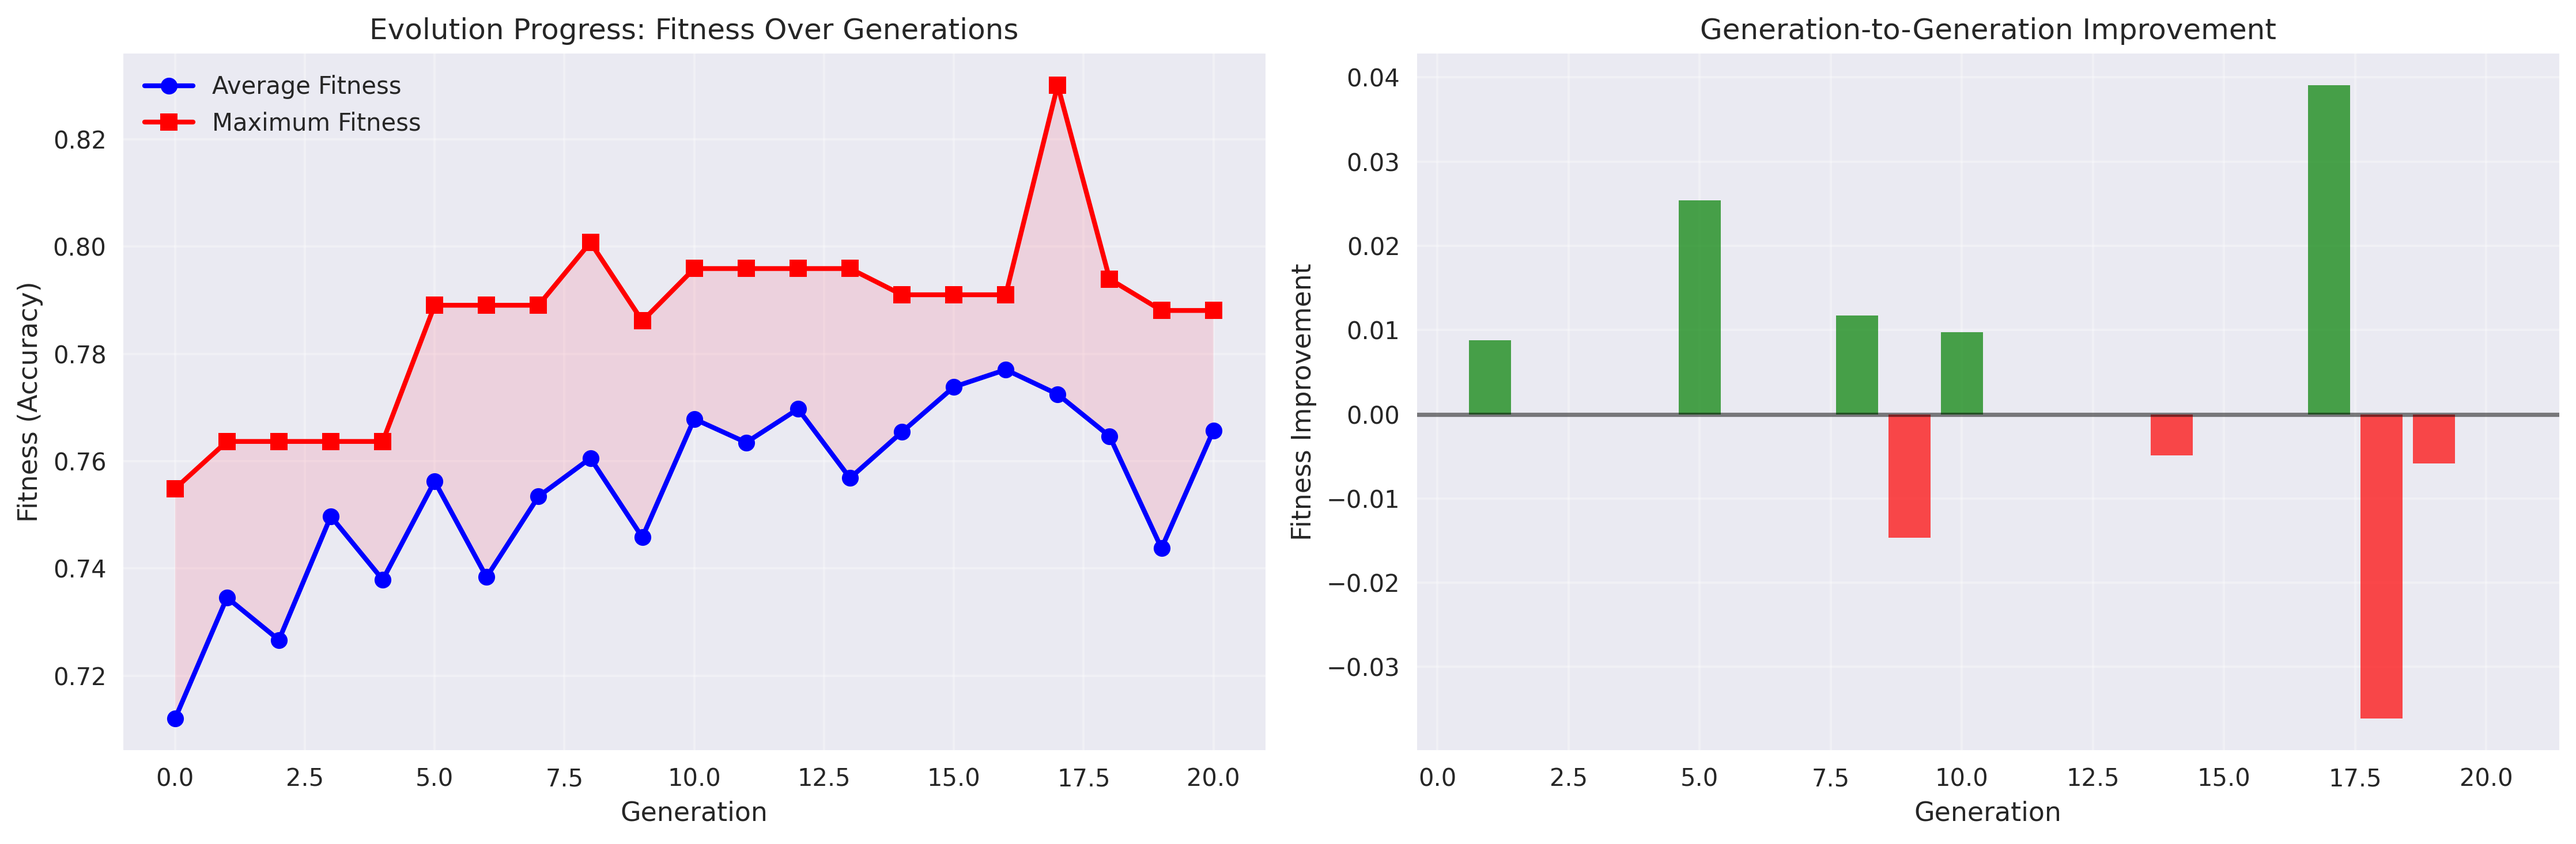
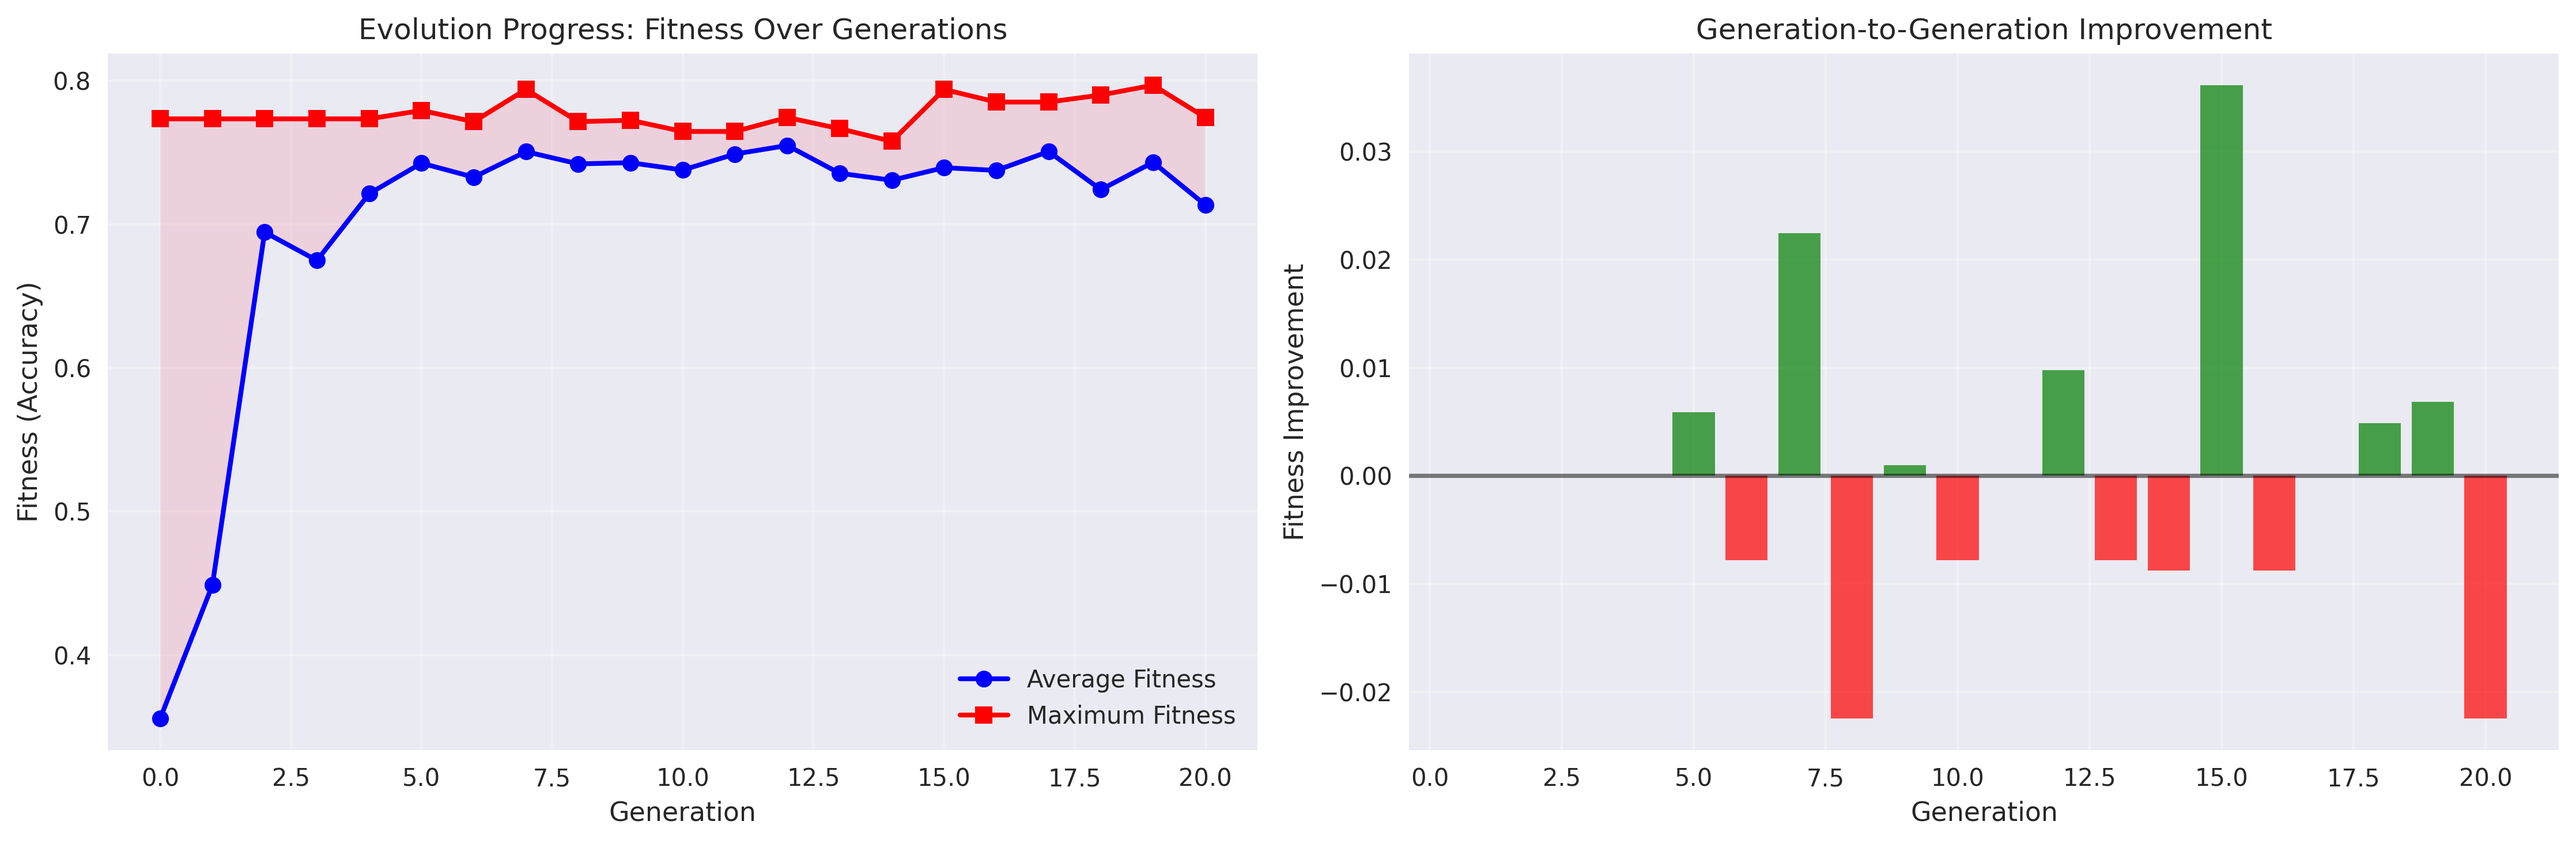
update-friday

diff --git a/testing.py b/testing.py
@@ -1,0 +1,368 @@
+import torch
+import torch.nn as nn
+import snntorch as snn
+import torchvision
+import torchvision.transforms as transforms
+from torch.utils.data import DataLoader
+import numpy as np
+import random
+from deap import base, creator, tools, algorithms
+import matplotlib.pyplot as plt
+import seaborn as sns
+from matplotlib.patches import Rectangle
+import math
+
+plt.style.use('seaborn-v0_8')
+sns.set_palette("husl")
+
+transform = transforms.Compose([transforms.ToTensor()])
+train_data = torchvision.datasets.MNIST(root="./data", train=True, download=True, transform=transform)
+test_data = torchvision.datasets.MNIST(root="./data", train=False, download=True, transform=transform)
+train_loader = DataLoader(train_data, batch_size=64, shuffle=True)
+test_loader = DataLoader(test_data, batch_size=64, shuffle=False)
+
+def create_snn(layer_sizes, beta, dropout_rate=0.1):
+    """
+    Create SNN with variable number of layers and improved architecture
+    """
+    class SNNModel(nn.Module):
+        def __init__(self):
+            super().__init__()
+            
+            self.layers = nn.ModuleList()
+            self.lif_layers = nn.ModuleList()
+            self.dropout_layers = nn.ModuleList()
+            
+            # Input layer
+            input_size = 28 * 28
+            for i, hidden_size in enumerate(layer_sizes):
+                self.layers.append(nn.Linear(input_size, hidden_size))
+                self.lif_layers.append(snn.Leaky(beta=beta))
+                # Add dropout for regularization (except last layer)
+                if i < len(layer_sizes) - 1:
+                    self.dropout_layers.append(nn.Dropout(dropout_rate))
+                else:
+                    self.dropout_layers.append(nn.Identity())
+                input_size = hidden_size
+            
+            # Output layer
+            self.layers.append(nn.Linear(input_size, 10))
+            self.lif_layers.append(snn.Leaky(beta=beta))
+
+        def forward(self, x, num_steps=15):  # Increased time steps
+            # Initialize membrane potentials for all layers
+            mem_states = [lif.init_leaky() for lif in self.lif_layers]
+            spk_out = 0
+            
+            for step in range(num_steps):
+                current_input = x.view(x.size(0), -1)
+                
+                # Forward through all layers
+                for i, (layer, lif, dropout) in enumerate(zip(self.layers, self.lif_layers, self.dropout_layers + [nn.Identity()])):
+                    current = layer(current_input)
+                    spike, mem_states[i] = lif(current, mem_states[i])
+                    if i < len(self.layers) - 1:  # Apply dropout except on output
+                        spike = dropout(spike)
+                    current_input = spike
+                
+                spk_out += current_input
+            
+            return spk_out / num_steps
+    
+    return SNNModel()
+
+def create_individual_with_depth():
+    """Create individual with improved parameter ranges"""
+    num_hidden_layers = random.randint(2, 4)  # Reduced max depth for stability
+    
+    # Create layer sizes with tapering (wider to narrower)
+    layer_sizes = []
+    base_size = random.uniform(128, 256)  # Start with wider layers
+    
+    for i in range(num_hidden_layers):
+        # Gradually reduce size for deeper layers
+        reduction_factor = 0.7 ** i
+        size = max(32, base_size * reduction_factor + random.uniform(-20, 20))
+        layer_sizes.append(size)
+    
+    beta = random.uniform(0.7, 0.95)  # Narrower beta range
+    lr = random.uniform(0.001, 0.005)  # Narrower LR range
+    dropout = random.uniform(0.0, 0.2)  # Add dropout parameter
+    
+    individual = [num_hidden_layers] + layer_sizes + [beta, lr, dropout]
+    return individual
+
+def bounded_mutation_with_depth(individual, mu=0, sigma=0.15, indpb=0.15):
+    """Improved mutation with smaller perturbations"""
+    num_layers = int(individual[0])
+    
+    # Mutate number of layers (lower probability)
+    if random.random() < 0.03:  # Reduced probability
+        new_num_layers = max(2, min(4, num_layers + random.choice([-1, 1])))
+        
+        if new_num_layers > num_layers:
+            # Add a new layer (smaller than previous)
+            prev_size = individual[num_layers] if num_layers > 0 else 128
+            new_layer_size = max(32, prev_size * 0.7 + random.uniform(-10, 10))
+            individual.insert(num_layers + 1, new_layer_size)
+        elif new_num_layers < num_layers:
+            individual.pop(num_layers)
+        
+        individual[0] = new_num_layers
+        num_layers = new_num_layers
+    
+    # Mutate layer sizes with smaller perturbations
+    for i in range(1, num_layers + 1):
+        if random.random() < indpb:
+            individual[i] += random.gauss(mu, sigma * 30)  # Smaller mutations
+            individual[i] = max(32, min(256, individual[i]))
+    
+    # Mutate beta
+    if random.random() < indpb:
+        individual[num_layers + 1] += random.gauss(mu, sigma * 0.05)
+        individual[num_layers + 1] = max(0.7, min(0.95, individual[num_layers + 1]))
+    
+    # Mutate learning rate
+    if random.random() < indpb:
+        individual[num_layers + 2] += random.gauss(mu, sigma * 0.001)
+        individual[num_layers + 2] = max(0.001, min(0.005, individual[num_layers + 2]))
+    
+    # Mutate dropout
+    if random.random() < indpb:
+        individual[num_layers + 3] += random.gauss(mu, sigma * 0.05)
+        individual[num_layers + 3] = max(0.0, min(0.2, individual[num_layers + 3]))
+    
+    return individual,
+
+def crossover_with_depth(ind1, ind2):
+    """Improved crossover for variable-length individuals"""
+    num_layers1 = int(ind1[0])
+    num_layers2 = int(ind2[0])
+    
+    # Choose depth more intelligently (favor successful depths)
+    if hasattr(ind1, 'fitness') and hasattr(ind2, 'fitness'):
+        if ind1.fitness.valid and ind2.fitness.valid:
+            if ind1.fitness.values[0] > ind2.fitness.values[0]:
+                chosen_depth = num_layers1
+            else:
+                chosen_depth = num_layers2
+        else:
+            chosen_depth = random.choice([num_layers1, num_layers2])
+    else:
+        chosen_depth = random.choice([num_layers1, num_layers2])
+    
+    # Create new individuals
+    new_ind1 = [chosen_depth]
+    new_ind2 = [chosen_depth]
+    
+    # Blend layer sizes
+    for i in range(chosen_depth):
+        if i < num_layers1 and i < num_layers2:
+            # Blend existing layers
+            alpha = random.uniform(0.3, 0.7)  # Less extreme blending
+            size1 = alpha * ind1[1 + i] + (1 - alpha) * ind2[1 + i]
+            size2 = (1 - alpha) * ind1[1 + i] + alpha * ind2[1 + i]
+        elif i < num_layers1:
+            size1 = ind1[1 + i] + random.uniform(-10, 10)
+            size2 = random.uniform(32, 128)
+        elif i < num_layers2:
+            size1 = random.uniform(32, 128)
+            size2 = ind2[1 + i] + random.uniform(-10, 10)
+        else:
+            size1 = random.uniform(64, 128)
+            size2 = random.uniform(64, 128)
+        
+        new_ind1.append(max(32, min(256, size1)))
+        new_ind2.append(max(32, min(256, size2)))
+    
+    # Blend other parameters
+    alpha = random.uniform(0.3, 0.7)
+    beta1 = alpha * ind1[num_layers1 + 1] + (1 - alpha) * ind2[num_layers2 + 1]
+    beta2 = (1 - alpha) * ind1[num_layers1 + 1] + alpha * ind2[num_layers2 + 1]
+    lr1 = alpha * ind1[num_layers1 + 2] + (1 - alpha) * ind2[num_layers2 + 2]
+    lr2 = (1 - alpha) * ind1[num_layers1 + 2] + alpha * ind2[num_layers2 + 2]
+    dropout1 = alpha * ind1[num_layers1 + 3] + (1 - alpha) * ind2[num_layers2 + 3]
+    dropout2 = (1 - alpha) * ind1[num_layers1 + 3] + alpha * ind2[num_layers2 + 3]
+    
+    new_ind1.extend([beta1, lr1, dropout1])
+    new_ind2.extend([beta2, lr2, dropout2])
+    
+    ind1[:] = new_ind1
+    ind2[:] = new_ind2
+    
+    return ind1, ind2
+
+def evaluate_model_with_depth(individual):
+    """Improved evaluation with more training and better metrics"""
+    try:
+        # Parse individual
+        num_layers = int(individual[0])
+        layer_sizes = [max(32, min(256, int(round(individual[i])))) 
+                       for i in range(1, num_layers + 1)]
+        beta = max(0.7, min(0.95, float(individual[num_layers + 1])))
+        lr = max(0.001, min(0.005, float(individual[num_layers + 2])))
+        dropout = max(0.0, min(0.2, float(individual[num_layers + 3])))
+        
+        model = create_snn(layer_sizes, beta, dropout)
+        device = torch.device("cuda" if torch.cuda.is_available() else "cpu")
+        model.to(device)
+        optimizer = torch.optim.Adam(model.parameters(), lr=lr, weight_decay=1e-4)
+        loss_fn = nn.CrossEntropyLoss()
+
+        # Extended training loop
+        model.train()
+        total_loss = 0
+        num_batches = 0
+        
+        for batch_idx, (data, targets) in enumerate(train_loader):
+            data, targets = data.to(device), targets.to(device)
+            optimizer.zero_grad()
+            output = model(data)
+            loss = loss_fn(output, targets)
+            loss.backward()
+            
+            # Gradient clipping to prevent exploding gradients
+            torch.nn.utils.clip_grad_norm_(model.parameters(), max_norm=1.0)
+            
+            optimizer.step()
+            total_loss += loss.item()
+            num_batches += 1
+            
+            # Train on more batches based on network depth
+            max_batches = min(50, 30 + num_layers * 5)
+            if batch_idx >= max_batches:
+                break
+
+        # More comprehensive evaluation
+        model.eval()
+        correct, total = 0, 0
+        eval_loss = 0
+        
+        with torch.no_grad():
+            for batch_idx, (data, targets) in enumerate(test_loader):
+                data, targets = data.to(device), targets.to(device)
+                outputs = model(data)
+                loss = loss_fn(outputs, targets)
+                eval_loss += loss.item()
+                
+                _, pred = outputs.max(1)
+                total += targets.size(0)
+                correct += (pred == targets).sum().item()
+                
+                # Evaluate on more samples for better accuracy
+                if total >= 2000:  # Increased from 1000
+                    break
+        
+        accuracy = correct / total
+        avg_train_loss = total_loss / num_batches
+        avg_eval_loss = eval_loss / min(batch_idx + 1, len(test_loader))
+        
+        # Penalize overfitting and complexity
+        complexity_penalty = num_layers * 0.001 + sum(layer_sizes) * 0.00001
+        overfitting_penalty = max(0, avg_train_loss - avg_eval_loss) * 0.1
+        
+        final_fitness = accuracy - complexity_penalty - overfitting_penalty
+        
+        return (final_fitness,)
+    
+    except Exception as e:
+        print(f"Error evaluating individual: {e}")
+        return (0.0,)  # Return poor fitness for failed evaluations
+
+# Create DEAP classes and toolbox
+creator.create("FitnessMax", base.Fitness, weights=(1.0,))
+creator.create("Individual", list, fitness=creator.FitnessMax)
+
+toolbox = base.Toolbox()
+
+def create_individual():
+    """Create an individual and wrap it in creator.Individual"""
+    ind_data = create_individual_with_depth()
+    return creator.Individual(ind_data)
+
+toolbox.register("individual", create_individual)
+toolbox.register("population", tools.initRepeat, list, toolbox.individual)
+toolbox.register("evaluate", evaluate_model_with_depth)
+toolbox.register("mate", crossover_with_depth)
+toolbox.register("mutate", bounded_mutation_with_depth, mu=0, sigma=0.1, indpb=0.15)
+toolbox.register("select", tools.selTournament, tournsize=3)
+
+def run_evolution():
+    """Improved evolution with larger population and better selection"""
+    pop_size = 20  # Increased population size
+    pop = toolbox.population(n=pop_size)
+    hof = tools.HallOfFame(3)  # Keep top 3 individuals
+    
+    stats = tools.Statistics(lambda ind: ind.fitness.values)
+    stats.register("avg", np.mean)
+    stats.register("max", np.max)
+    stats.register("min", np.min)
+    stats.register("std", np.std)
+    
+    logbook = tools.Logbook()
+    logbook.header = ['gen', 'nevals'] + stats.fields
+
+    # Initial evaluation
+    fitnesses = toolbox.map(toolbox.evaluate, pop)
+    for ind, fit in zip(pop, fitnesses):
+        ind.fitness.values = fit
+    
+    hof.update(pop)
+    record = stats.compile(pop)
+    logbook.record(gen=0, nevals=len(pop), **record)
+    print(logbook.stream)
+    
+    # Evolution loop
+    for gen in range(1, 31):  # More generations
+        # Selection and reproduction
+        offspring = toolbox.select(pop, len(pop))
+        offspring = list(map(toolbox.clone, offspring))
+        
+        # Crossover
+        for child1, child2 in zip(offspring[::2], offspring[1::2]):
+            if random.random() < 0.6:  # Higher crossover rate
+                toolbox.mate(child1, child2)
+                del child1.fitness.values
+                del child2.fitness.values
+        
+        # Mutation
+        for mutant in offspring:
+            if random.random() < 0.2:  # Lower mutation rate
+                toolbox.mutate(mutant)
+                del mutant.fitness.values
+
+        # Evaluation
+        invalid_ind = [ind for ind in offspring if not ind.fitness.valid]
+        fitnesses = toolbox.map(toolbox.evaluate, invalid_ind)
+        for ind, fit in zip(invalid_ind, fitnesses):
+            ind.fitness.values = fit
+
+        # Elitism: Keep best individuals
+        pop[:] = tools.selBest(offspring + list(hof), len(pop))
+        
+        hof.update(pop)
+        record = stats.compile(pop)
+        logbook.record(gen=gen, nevals=len(invalid_ind), **record)
+        print(logbook.stream)
+        
+        # Early stopping if no improvement
+        if gen > 10 and logbook[-1]['max'] == logbook[-5]['max']:
+            print(f"Early stopping at generation {gen} due to no improvement")
+            break
+    
+    # Print best result
+    best = hof[0]
+    num_layers = int(best[0])
+    layer_sizes = [int(round(best[i])) for i in range(1, num_layers + 1)]
+    beta = best[num_layers + 1]
+    lr = best[num_layers + 2]
+    dropout = best[num_layers + 3]
+    
+    print(f"\nBest individual fitness: {best.fitness.values[0]:.4f}")
+    print(f"Architecture: 784 → {' → '.join(map(str, layer_sizes))} → 10")
+    print(f"Parameters: Beta={beta:.3f}, LR={lr:.5f}, Dropout={dropout:.3f}")
+    
+    return pop, logbook, hof
+
+if __name__ == '__main__':
+    population, logbook, hall_of_fame = run_evolution()

diff --git a/Example_of_neuroevolution.py b/Example_of_neuroevolution.py
@@ -87,7 +87,7 @@ def bounded_mutation_with_depth(individual, mu=0, sigma=0.2, indpb=0.2):
     num_layers = int(individual[0])
     
     # Mutate number of layers (with lower probability)
-    if random.random() < 0.05:  # 10% chance to change depth
+    if random.random() < 0.05:  # 5% chance to change depth
         new_num_layers = max(2, min(5, num_layers + random.choice([-1, 1])))
         
         if new_num_layers > num_layers:
@@ -407,7 +407,7 @@ def run_evolution():
     logbook.record(gen=0, nevals=len(pop), **record)
     print(logbook.stream)
     
-    for gen in range(1, 11):  
+    for gen in range(1, 21):  
         offspring = toolbox.select(pop, len(pop))
         offspring = list(map(toolbox.clone, offspring))
         
